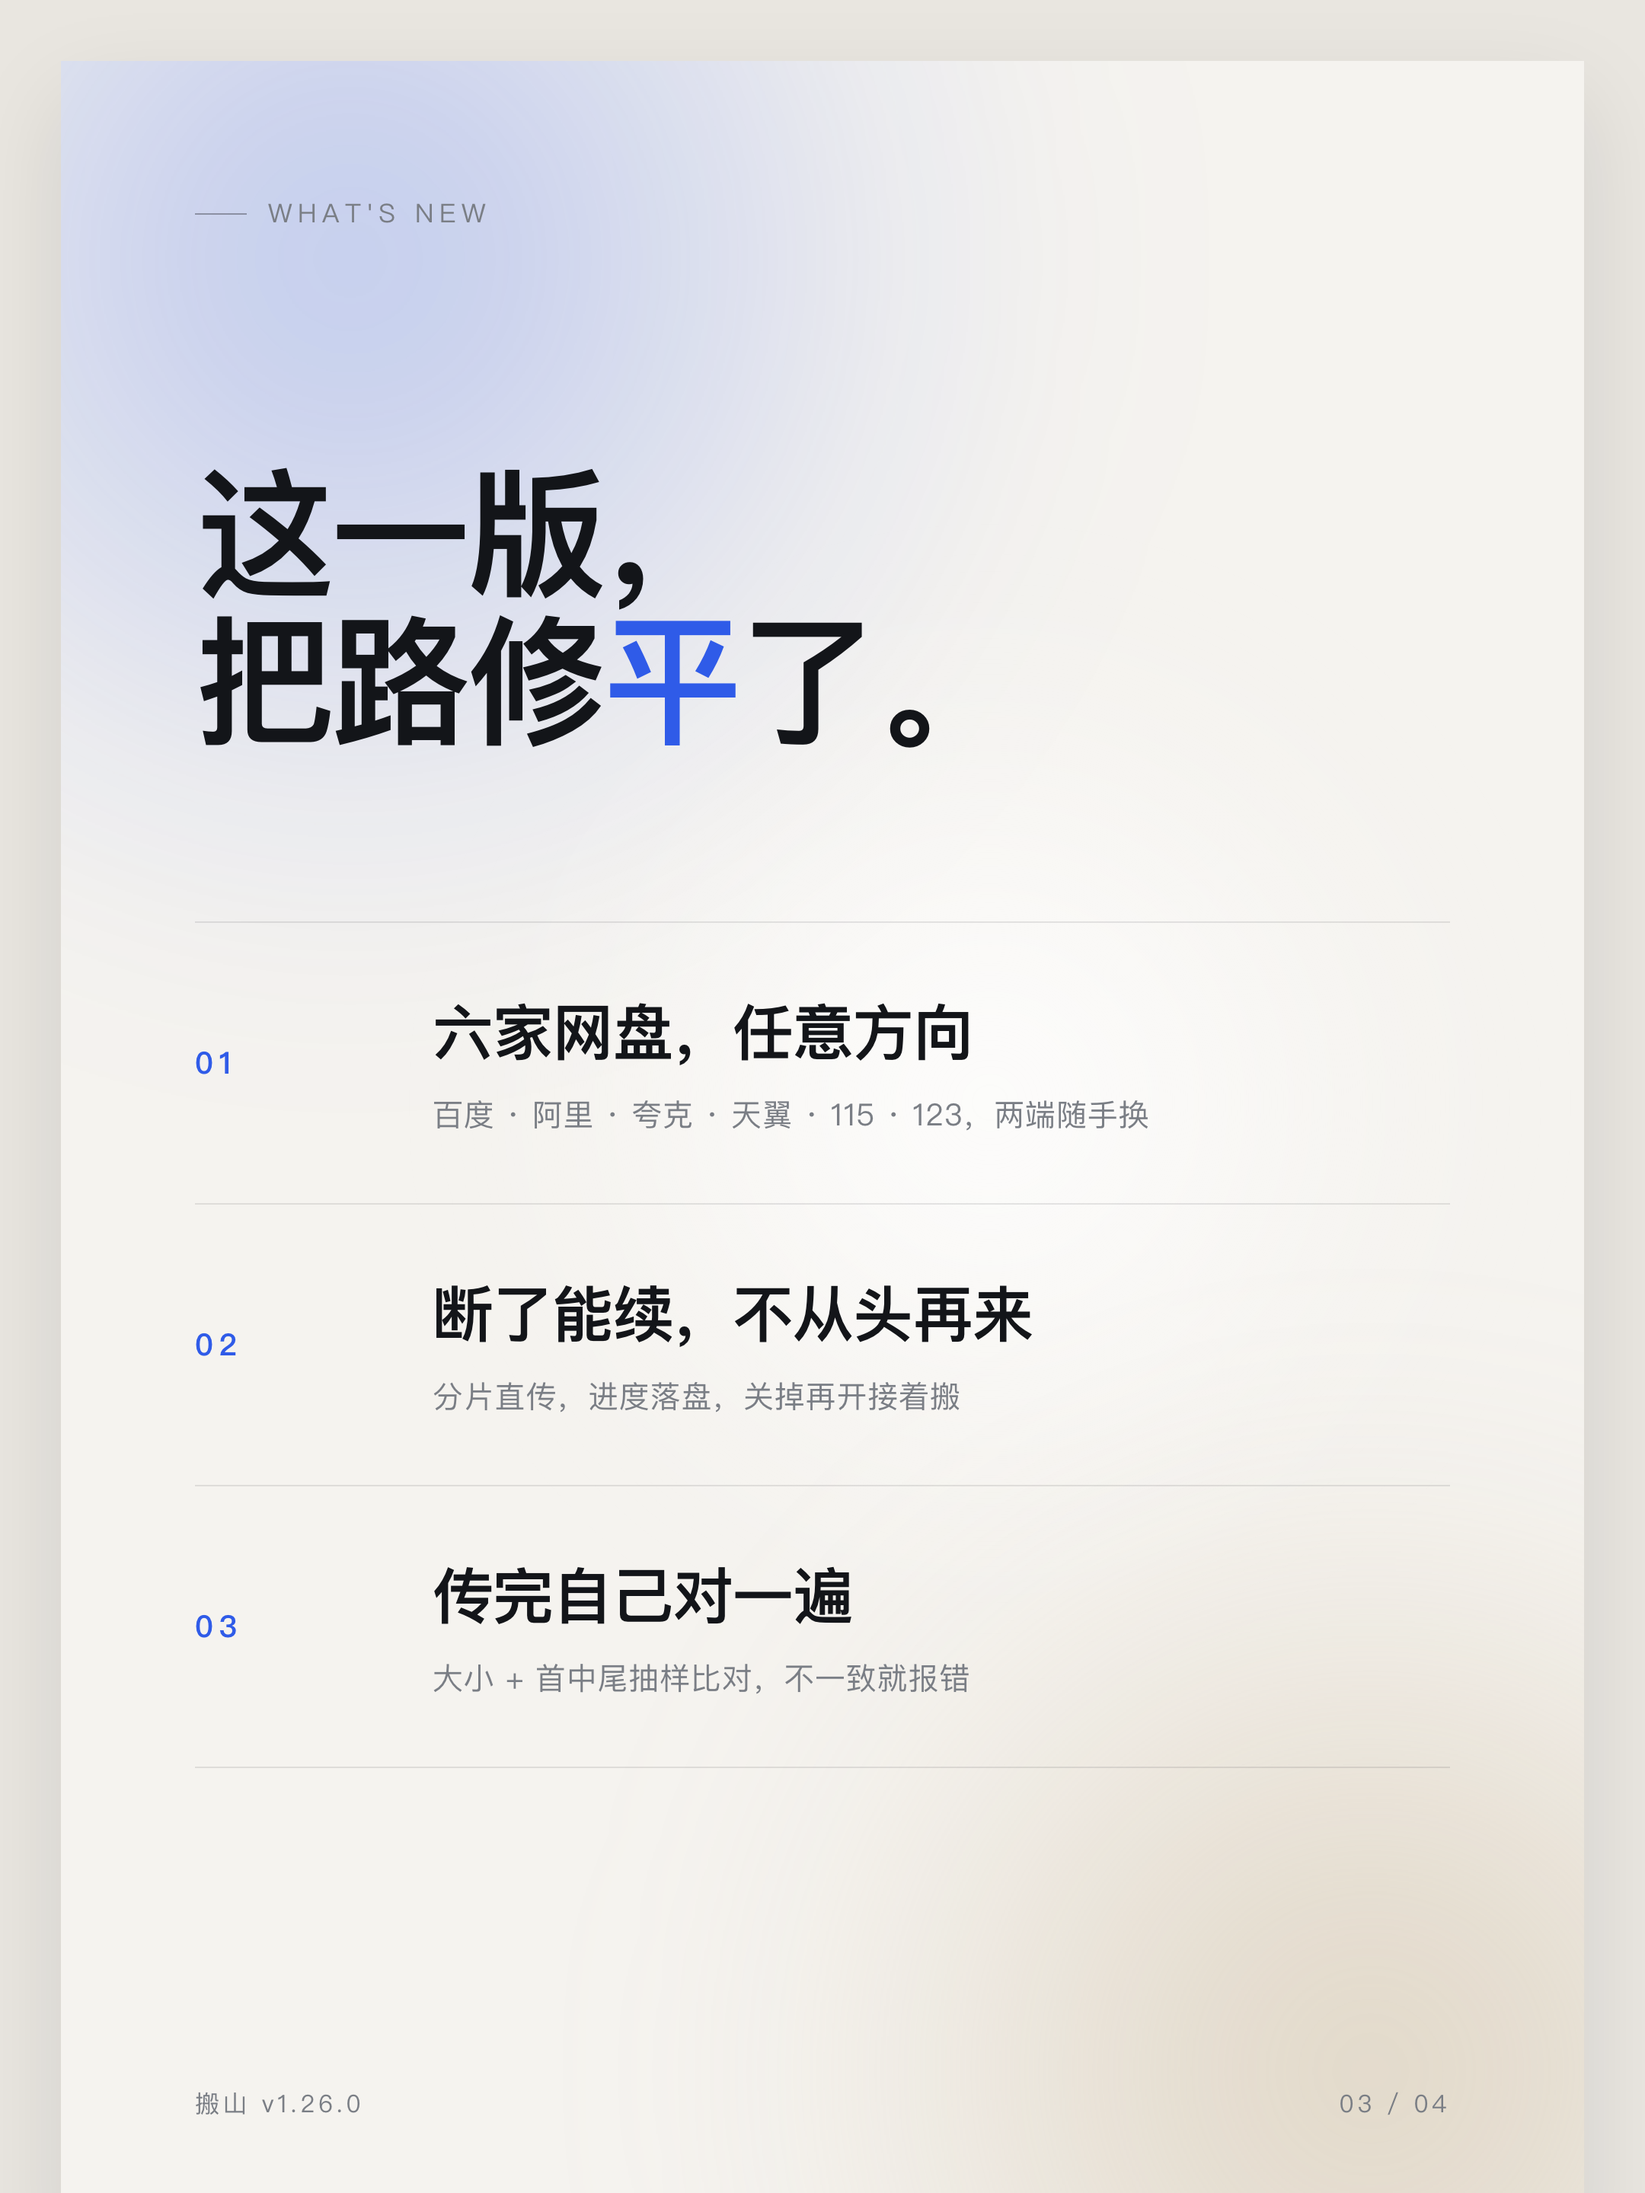
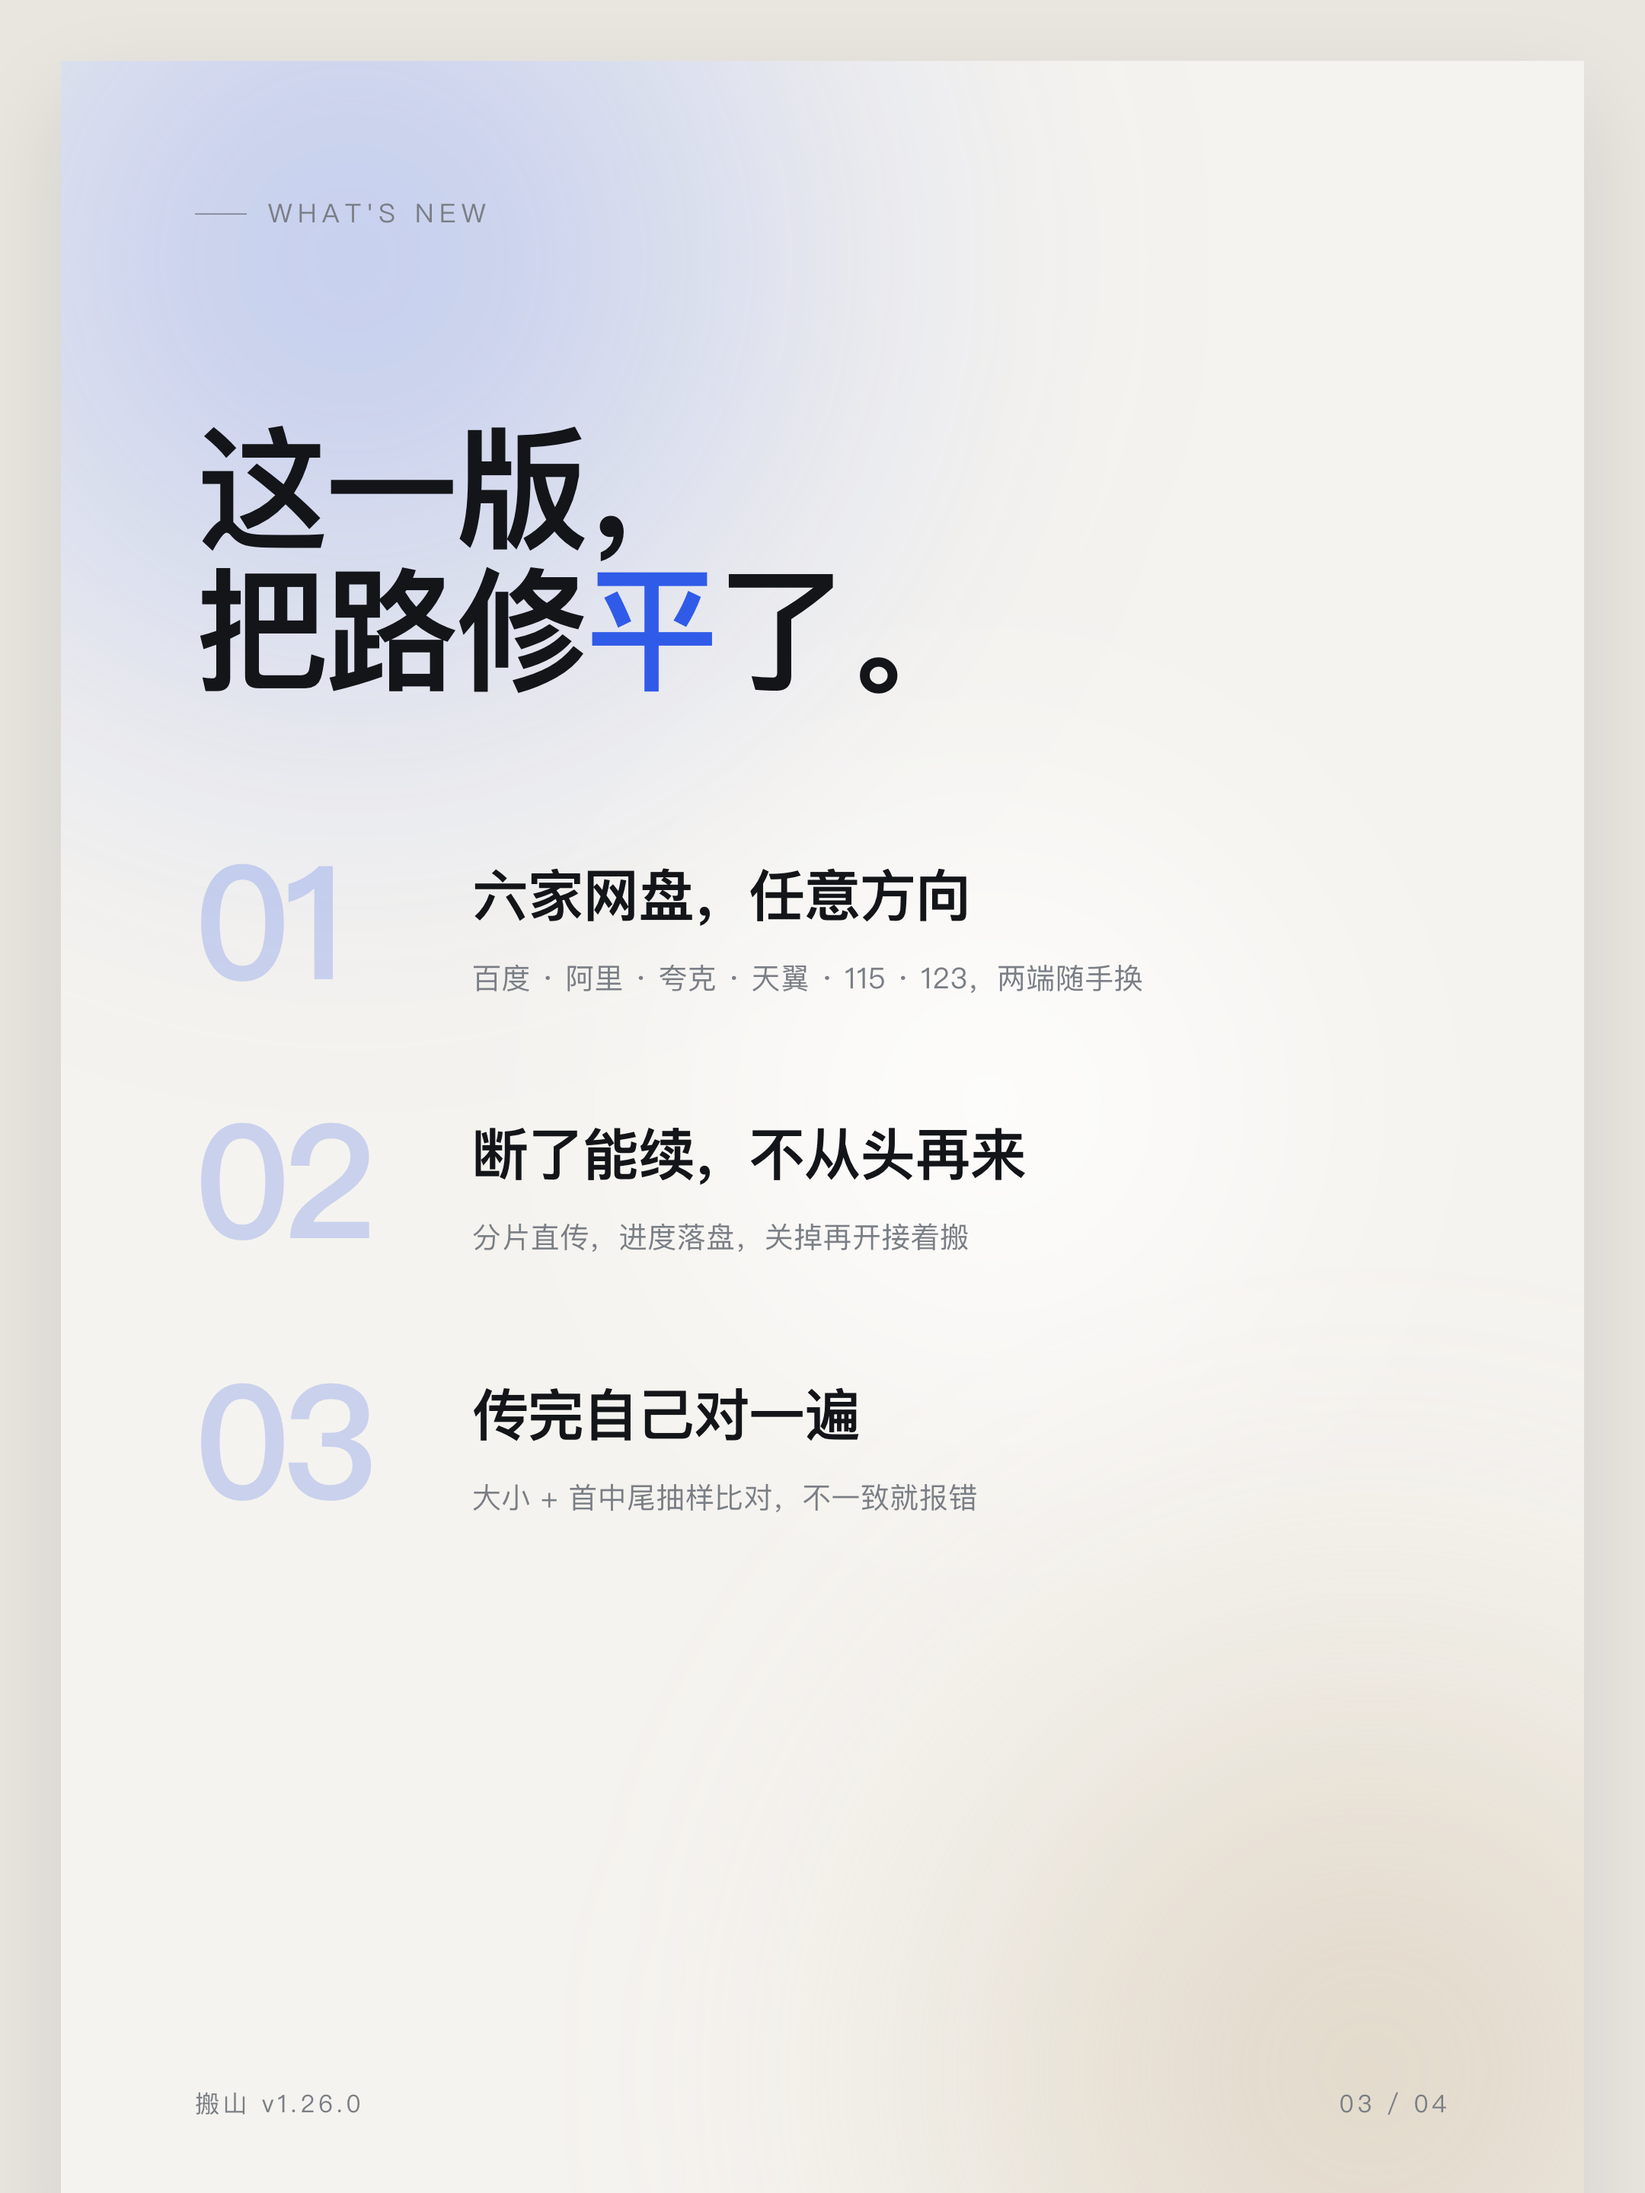
海报：第2页换标题，第3/4页改版式并去掉全部分隔线

diff --git a/posters/v127/poster.html b/posters/v127/poster.html
@@ -93,26 +93,7 @@
   /* ── 第 2 页：更新要点 ── */
   .sec-title{margin-top:150px;font-size:92px;line-height:1.05;font-weight:700;letter-spacing:-.03em}
   .sec-title em{font-style:normal;color:var(--azure)}
-  .list{margin-top:110px;border-top:1px solid var(--hair)}
-  .row{
-    display:grid;grid-template-columns:120px 1fr;align-items:center;gap:36px;
-    padding:44px 0;border-bottom:1px solid var(--hair);
-  }
-  .row .no{font-size:20px;letter-spacing:.18em;color:var(--azure);font-weight:600}
-  .row .txt{font-size:40px;font-weight:600;letter-spacing:-.015em}
-  .row .txt small{display:block;margin-top:12px;font-size:20px;font-weight:400;color:var(--muted);letter-spacing:.02em}
-
   /* ── 第 3 页：支持与下载 ── */
-  .clouds{
-    margin-top:96px;display:grid;grid-template-columns:1fr 1fr;column-gap:80px;
-  }
-  .cloud{
-    display:flex;align-items:center;gap:16px;
-    padding:40px 0;border-bottom:1px solid var(--hair);
-    font-size:34px;font-weight:600;letter-spacing:-.01em;
-  }
-  .cloud i{width:7px;height:7px;border-radius:50%;background:var(--azure);opacity:.75;flex:0 0 auto}
-  .cloud span{font-size:16px;font-weight:400;color:var(--muted);letter-spacing:.12em;margin-left:auto}
   .dl{margin-top:auto;display:flex;align-items:flex-end;justify-content:space-between;gap:40px}
   .badges{display:flex;gap:12px;flex-wrap:nowrap}
   .dl .badge{
@@ -125,11 +106,35 @@
     letter-spacing:.005em;margin-bottom:6px;
   }
 
+  /* ── 第 3 页：更新要点（超大数字，不用分隔线）── */
+  .sec-title{margin-top:122px;font-size:88px;line-height:1.06;font-weight:700;letter-spacing:-.03em}
+  .sec-title em{font-style:normal;color:var(--azure)}
+  .points{margin-top:104px;display:flex;flex-direction:column;gap:78px}
+  .pt{display:grid;grid-template-columns:172px 1fr;gap:10px;align-items:start}
+  .pt .n{
+    font-size:104px;line-height:.78;font-weight:700;letter-spacing:-.05em;
+    color:rgba(47,91,232,.22);
+  }
+  .pt b{display:block;font-size:37px;font-weight:600;letter-spacing:-.018em;line-height:1.25}
+  .pt small{display:block;margin-top:16px;font-size:19px;color:var(--muted);letter-spacing:.01em;line-height:1.6}
+
+  /* ── 第 4 页：支持（半透明卡片，与第 3 页的错落感区分开）── */
+  .grid6{margin-top:132px;display:grid;grid-template-columns:repeat(3,1fr);gap:16px}
+  .c6{
+    background:rgba(255,255,255,.62);border-radius:16px;
+    padding:38px 26px 34px;display:flex;flex-direction:column;gap:10px;
+  }
+  .c6 i{width:7px;height:7px;border-radius:50%;background:var(--azure);opacity:.8;margin-bottom:8px}
+  .c6 b{font-size:27px;font-weight:600;letter-spacing:-.012em}
+  .c6 span{font-size:12px;letter-spacing:.2em;color:var(--muted)}
+
   /* ── 第 2 页：界面截图 ── */
   .ui-title{margin-top:44px;font-size:64px;line-height:1.18;font-weight:700;letter-spacing:-.025em}
+  /* 不用发丝边：浅色纸上一条 1px 灰线会把卡片切得生硬，
+     改用一层更柔更大的阴影让它自己浮起来 */
   .shot{
-    margin-top:46px;background:#fff;border:1px solid var(--hair);border-radius:20px;
-    padding:10px;box-shadow:0 26px 60px rgba(19,21,25,.10);
+    margin-top:46px;background:#fff;border-radius:22px;
+    padding:9px;box-shadow:0 18px 44px rgba(19,21,25,.10), 0 44px 90px rgba(19,21,25,.06);
   }
   .shot img{
     display:block;width:100%;height:740px;object-fit:cover;object-position:top center;
@@ -193,7 +198,7 @@
   <div class="inner">
     <div class="kicker"><i></i>Interface</div>
 
-    <h2 class="ui-title">一屏看全，<br>不用翻页。</h2>
+    <h2 class="ui-title">看到的，<br>就是全部。</h2>
 
     <div class="shot">
       <img src="../../screenshots/主界面-浅色.png" alt="搬山主界面">
@@ -213,22 +218,25 @@
 
     <h2 class="sec-title">这一版，<br>把路修<em>平</em>了。</h2>
 
-    <div class="list">
-      <div class="row">
-        <div class="no">01</div>
-        <div class="txt">六家网盘，任意方向
+    <div class="points">
+      <div class="pt">
+        <span class="n">01</span>
+        <div>
+          <b>六家网盘，任意方向</b>
           <small>百度 · 阿里 · 夸克 · 天翼 · 115 · 123，两端随手换</small>
         </div>
       </div>
-      <div class="row">
-        <div class="no">02</div>
-        <div class="txt">断了能续，不从头再来
+      <div class="pt">
+        <span class="n">02</span>
+        <div>
+          <b>断了能续，不从头再来</b>
           <small>分片直传，进度落盘，关掉再开接着搬</small>
         </div>
       </div>
-      <div class="row">
-        <div class="no">03</div>
-        <div class="txt">传完自己对一遍
+      <div class="pt">
+        <span class="n">03</span>
+        <div>
+          <b>传完自己对一遍</b>
           <small>大小 + 首中尾抽样比对，不一致就报错</small>
         </div>
       </div>
@@ -246,13 +254,13 @@
 
     <h2 class="sec-title" style="margin-top:120px">六个网盘<br>一个入口。</h2>
 
-    <div class="clouds">
-      <div class="cloud"><i></i>百度网盘<span>BAIDU</span></div>
-      <div class="cloud"><i></i>阿里云盘<span>ALIYUN</span></div>
-      <div class="cloud"><i></i>夸克网盘<span>QUARK</span></div>
-      <div class="cloud"><i></i>天翼云盘<span>TIANYI</span></div>
-      <div class="cloud"><i></i>115 网盘<span>115</span></div>
-      <div class="cloud"><i></i>123 云盘<span>123PAN</span></div>
+    <div class="grid6">
+      <div class="c6"><i></i><b>百度网盘</b><span>BAIDU</span></div>
+      <div class="c6"><i></i><b>阿里云盘</b><span>ALIYUN</span></div>
+      <div class="c6"><i></i><b>夸克网盘</b><span>QUARK</span></div>
+      <div class="c6"><i></i><b>天翼云盘</b><span>TIANYI</span></div>
+      <div class="c6"><i></i><b>115 网盘</b><span>115</span></div>
+      <div class="c6"><i></i><b>123 云盘</b><span>123PAN</span></div>
     </div>
 
     <div class="dl">
